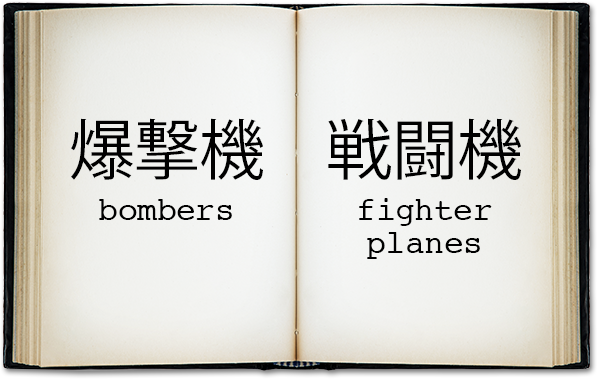
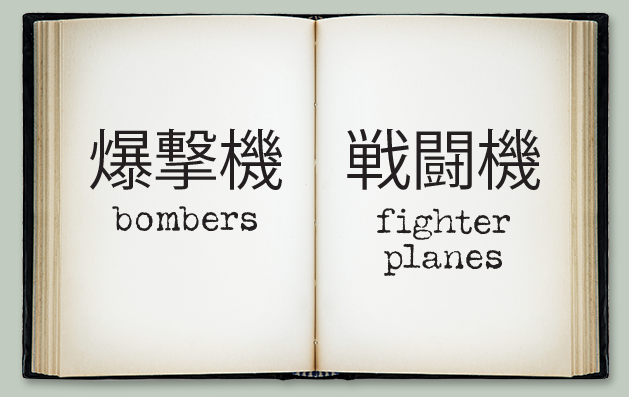
Final art for linguist game

diff --git a/ww2/linguist/script/Game.js b/ww2/linguist/script/Game.js
@@ -31,73 +31,73 @@ ENGINE.Game = {
     });
   },
 
-  textBook1: function(bookMinX, bookWidth, bookHeight) {
+  textBook1: function(bookMinX, bookMinY, bookWidth, bookHeight) {
     var app = this.app;
     var layer = this.app.layer;
     return [
       { minX: bookMinX + bookWidth * 0.12,
-        minY: bookHeight * 0.20,
+        minY: bookMinY + bookHeight * 0.20,
         width: bookWidth * 0.36,
-        height: bookHeight * 0.22,
+        height: bookHeight * 0.25,
         fn: function(){ this.popup = 'wrong1'; this.wrong++; }
       },
       { minX: bookMinX + bookWidth * 0.52,
-        minY: bookHeight * 0.20,
+        minY: bookMinY + bookHeight * 0.20,
         width: bookWidth * 0.36,
-        height: bookHeight * 0.22,
+        height: bookHeight * 0.25,
         fn: function(){ this.popup = 'wrong1'; this.wrong++; }
       },
       { minX: bookMinX + bookWidth * 0.12,
-        minY: bookHeight * 0.55,
+        minY: bookMinY + bookHeight * 0.53,
         width: bookWidth * 0.36,
-        height: bookHeight * 0.22,
+        height: bookHeight * 0.25,
         fn: function(){ this.popup = 'right1'; this.right++; }
       },
       { minX: bookMinX + bookWidth * 0.52,
-        minY: bookHeight * 0.55,
+        minY: bookMinY + bookHeight * 0.53,
         width: bookWidth * 0.36,
-        height: bookHeight * 0.22,
+        height: bookHeight * 0.25,
         fn: function(){ this.popup = 'wrong1'; this.wrong++; }
       },
     ];
   },
 
-  textBook2: function(bookMinX, bookWidth, bookHeight) {
+  textBook2: function(bookMinX, bookMinY, bookWidth, bookHeight) {
     var app = this.app;
     var layer = this.app.layer;
     return [
       { minX: bookMinX + bookWidth * 0.12,
-        minY: bookHeight * 0.14,
+        minY: bookMinY + bookHeight * 0.15,
         width: bookWidth * 0.36,
-        height: bookHeight * 0.18,
+        height: bookHeight * 0.19,
         fn: function(){ this.popup = 'wrong2'; this.wrong++; }
       },
       { minX: bookMinX + bookWidth * 0.52,
-        minY: bookHeight * 0.18,
+        minY: bookMinY + bookHeight * 0.19,
         width: bookWidth * 0.36,
         height: bookHeight * 0.18,
         fn: function(){ this.popup = 'wrong2'; this.wrong++; }
       },
       { minX: bookMinX + bookWidth * 0.12,
-        minY: bookHeight * 0.38,
+        minY: bookMinY + bookHeight * 0.38,
         width: bookWidth * 0.36,
-        height: bookHeight * 0.18,
+        height: bookHeight * 0.19,
         fn: function(){ this.popup = 'wrong2'; this.wrong++; }
       },
       { minX: bookMinX + bookWidth * 0.52,
-        minY: bookHeight * 0.42,
+        minY: bookMinY + bookHeight * 0.42,
         width: bookWidth * 0.36,
         height: bookHeight * 0.18,
         fn: function(){ this.popup = 'wrong2'; this.wrong++; }
       },
       { minX: bookMinX + bookWidth * 0.12,
-        minY: bookHeight * 0.63,
+        minY: bookMinY + bookHeight * 0.62,
         width: bookWidth * 0.36,
-        height: bookHeight * 0.18,
+        height: bookHeight * 0.19,
         fn: function(){ this.popup = 'right2'; this.right++; }
       },
       { minX: bookMinX + bookWidth * 0.52,
-        minY: bookHeight * 0.67,
+        minY: bookMinY + bookHeight * 0.66,
         width: bookWidth * 0.36,
         height: bookHeight * 0.18,
         fn: function(){ this.popup = 'right2'; this.right++; }
@@ -105,20 +105,20 @@ ENGINE.Game = {
     ]
   },
 
-  textBook3: function(bookMinX, bookWidth, bookHeight) {
+  textBook3: function(bookMinX, bookMinY, bookWidth, bookHeight) {
     var app = this.app;
     var layer = this.app.layer;
     return [
-      { minX: bookMinX + bookWidth * 0.10,
-        minY: bookHeight * 0.30,
-        width: bookWidth * 0.36,
+      { minX: bookMinX + bookWidth * 0.12,
+        minY: bookMinY + bookHeight * 0.30,
+        width: bookWidth * 0.35,
         height: bookHeight * 0.35,
         fn: function(){ this.popup = 'wrong3'; this.wrong++; }
       },
-      { minX: bookMinX + bookWidth * 0.54,
-        minY: bookHeight * 0.30,
-        width: bookWidth * 0.36,
-        height: bookHeight * 0.4,
+      { minX: bookMinX + bookWidth * 0.53,
+        minY: bookMinY + bookHeight * 0.30,
+        width: bookWidth * 0.35,
+        height: bookHeight * 0.41,
         fn: function(){ this.popup = 'right3'; this.right++; }
       },
     ];
@@ -228,38 +228,56 @@ ENGINE.Game = {
 
     layer.clear("white");
 
-    var book = app.images['book' + this.question];
-    var bookHeight = app.height * 0.45;
-    var bookWidth = Math.min(app.width, book.width * (bookHeight / book.height));
-    bookHeight = book.height * (bookWidth / book.width);
-    var bookMinX = (app.width - bookWidth) / 2;
-    var paperMinY = bookHeight / 2;
-    var paperMaxY = app.height * 0.8;
-    layer.drawImage(book, bookMinX, 0, bookWidth, bookHeight);
+    // first split the screen into parts
+    var jpnHeightFull = app.height * 0.43;
+    var jpnMinY = 0;
+    var jpnMaxY = jpnMinY + jpnHeightFull;
+
+    var bookHeightFull = app.height * 0.43;
+    var bookMinY = jpnMaxY;
+    var bookMaxY = bookMinY + bookHeightFull;
+
+    var engHeightFull = app.height - jpnHeightFull - bookHeightFull;
+    var engMinY = bookMaxY;
+    var engMaxY = engMinY + engHeightFull;
+
+    // now calculate widths and fix heights
+    var jpnImage = app.images['japanese' + this.question];
+    var jpnWidth = Math.min(app.width, jpnImage.width * (jpnHeightFull / jpnImage.height));
+    var jpnHeight = jpnImage.height * (jpnWidth / jpnImage.width);
+    jpnMinY += (jpnHeightFull - jpnHeight) / 2;
+    jpnMinX = (app.width - jpnWidth) / 2;
+
+    var bookImage = app.images['book' + this.question];
+    var bookWidth = Math.min(app.width, bookImage.width * (bookHeightFull / bookImage.height));
+    var bookHeight = bookImage.height * (bookWidth / bookImage.width);
+    bookMinY += (bookHeightFull - bookHeight) / 2;
+    bookMinX = (app.width - bookWidth) / 2;
+
+    var engImage = app.images['english' + this.question];
+    var engWidth = Math.min(app.width, engImage.width * (engHeightFull / engImage.height));
+    var engHeight = engImage.height * (engWidth / engImage.width);
+    engMinY += (engHeightFull - engHeight) / 2;
+    engMinX = (app.width - engWidth) / 2;
+
+    // finally draw the images
+    layer.fillStyle('rgb(193,203,191)');
+    layer.fillRect(0, 0, app.width, engMinY);
+    layer.drawImage(jpnImage, jpnMinX, jpnMinY, jpnWidth, jpnHeight);
+    layer.drawImage(bookImage, bookMinX, bookMinY, bookWidth, bookHeight);
+    layer.drawImage(engImage, engMinX, engMinY, engWidth, engHeight);
 
     var bookButtons;
     switch (this.question) {
-      case 1: bookButtons = this.textBook1(bookMinX, bookWidth, bookHeight); break;
-      case 2: bookButtons = this.textBook2(bookMinX, bookWidth, bookHeight); break;
-      case 3: bookButtons = this.textBook3(bookMinX, bookWidth, bookHeight); break;
+      case 1: bookButtons = this.textBook1(bookMinX, bookMinY, bookWidth, bookHeight); break;
+      case 2: bookButtons = this.textBook2(bookMinX, bookMinY, bookWidth, bookHeight); break;
+      case 3: bookButtons = this.textBook3(bookMinX, bookMinY, bookWidth, bookHeight); break;
     }
     /* for testing
     bookButtons.forEach(function(button){
       layer.fillStyle('rgba(255,0,0,0.5)').fillRect(button.minX, button.minY, button.width, button.height);
     });
     */
-
-    var jpnImage = app.images['japanese' + this.question];
-    var jpnHeight = paperMaxY - bookHeight;
-    var jpnWidth = Math.min(app.width, jpnImage.width * (jpnHeight / jpnImage.height));
-    jpnHeight = jpnImage.height * (jpnWidth / jpnImage.width);
-    layer.drawImage(jpnImage, (app.width - jpnWidth) / 2, bookHeight, jpnWidth, jpnHeight);
-
-    var engImage = app.images['english' + this.question];
-    var engHeight = app.height - paperMaxY;
-    var engWidth = Math.min(app.width, engImage.width * (engHeight / engImage.height));
-    engHeight = engImage.height * (engWidth / engImage.width);
-    layer.drawImage(engImage, (app.width - engWidth) / 2, paperMaxY, engWidth, engHeight);
 
     switch (this.popup) {
       case 'right1':
